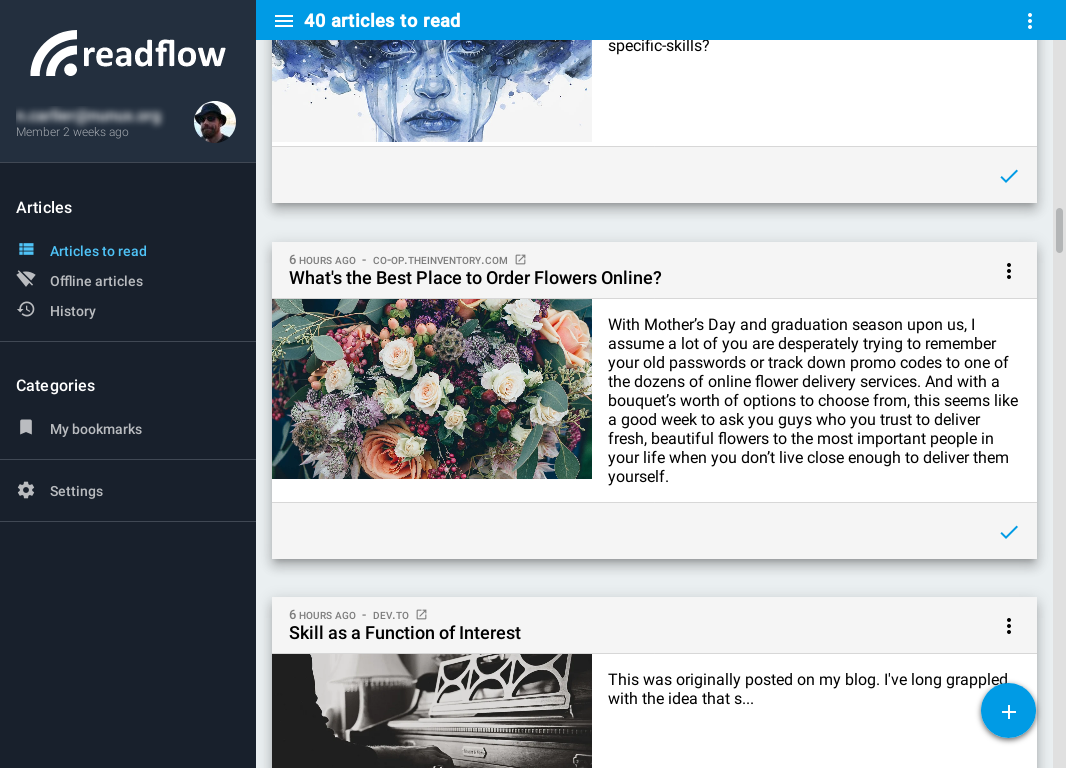
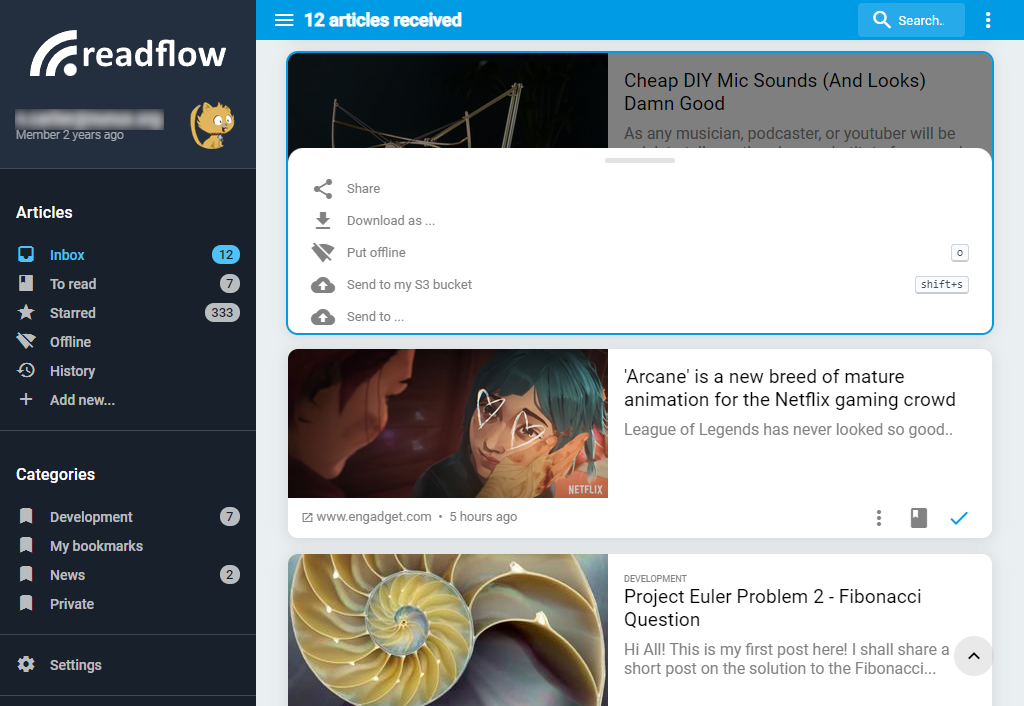
doc(): update README and screenshot

diff --git a/README.md b/README.md
@@ -11,12 +11,12 @@ Read your Internet article flow in one place with complete peace of mind and fre
 ## Features
 
 - Read articles from anywhere in one place.
-- Save articles for offline reading.
+- Save articles for offline reading or locally on you disk in the format you want (HTML, EPUB, ZIP, ...).
 - Create categories and classify new articles automatically thanks to a customizable rule engine.
-- External service integration thanks to incoming and outgoing webhooks ([Keeper][keeper], [Pocket][pocket], [Wallabag][wallabag], custom...).
-- Receive notifications when new articles are to be read.
-- Good user experience on mobile devices.
-- No tracking and no publicity.
+- Link with external services thanks to incoming and outgoing webhooks ([RSS][feedpushr], [Keeper][keeper], [Pocket][pocket], [Wallabag][wallabag], S3 bucket, and more...).
+- Receive notifications when new articles are available.
+- Enjoy the same user experience on mobile as on desktop thanks to [Progressive Web App][pwa] support.
+- And all this without ads and trackers.
 
 ## Installation
 
@@ -115,6 +115,8 @@ along with this program.  If not, see <https://www.gnu.org/licenses/>
 
 ---
 
+[pwa]: https://web.dev/progressive-web-apps
+[feedpushr]: https://github.com/ncarlier/feedpushr
 [keeper]: https://keeper.nunux.org
 [wallabag]: https://www.wallabag.org
 [pocket]: https://getpocket.com/
